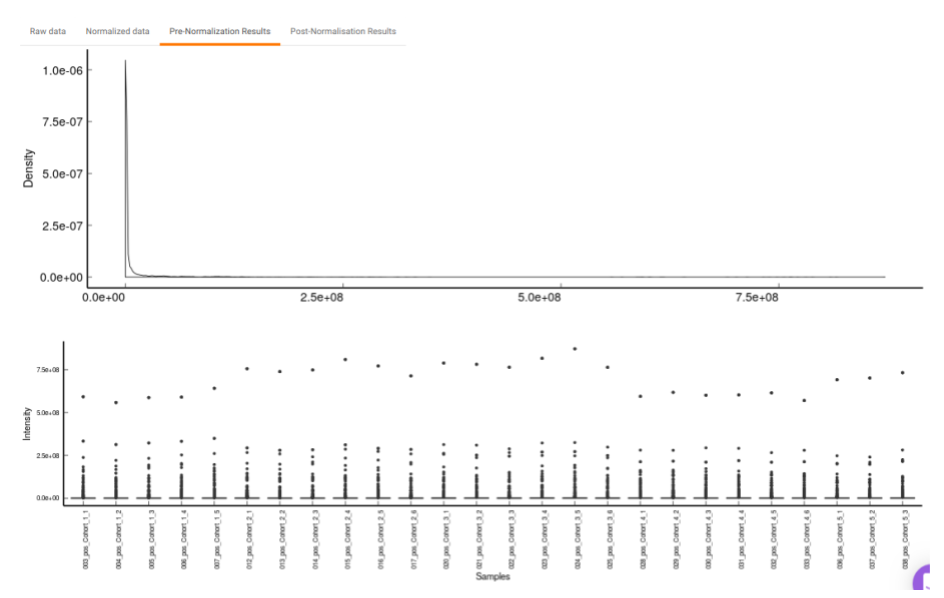
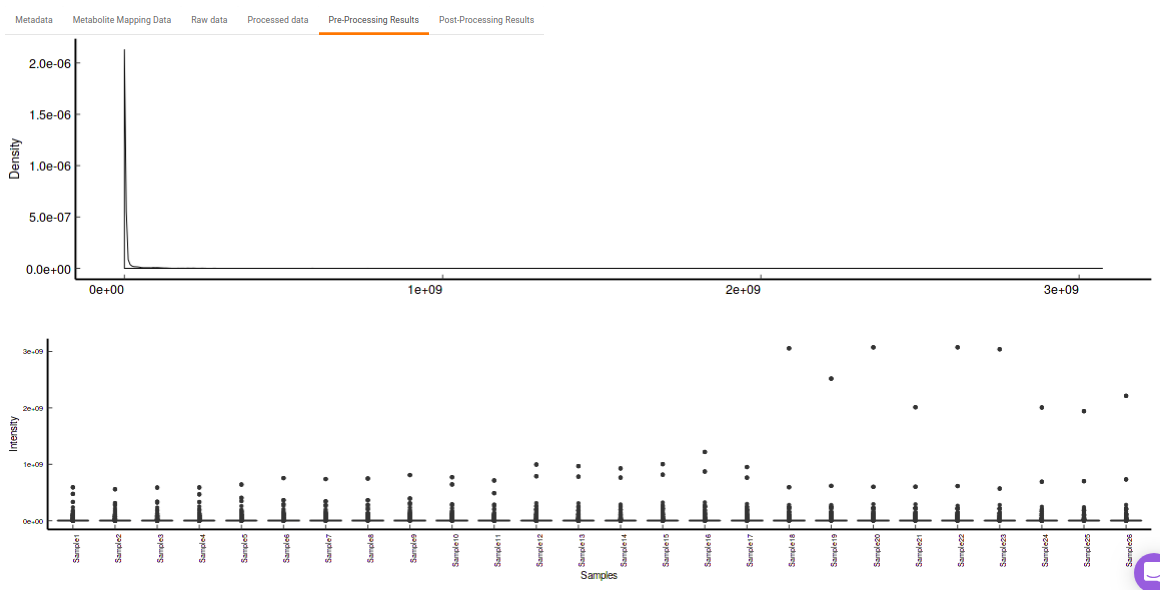
updated doc for new app changes

Changed region(s): [[0.0, 0.5797, 1.0, 1.0], [0.0, 0.0305, 1.0, 0.5186]]

diff --git a/docs/Apps/Metabolomic Data/Dual Mode Visualization.md b/docs/Apps/Metabolomic Data/Dual Mode Visualization.md
@@ -2,16 +2,16 @@
 
 ##Overview
 
-Metabolomics is one of the key research areas focusing on small molecules present in a tissue or cell. The Dual Mode Data Visualization (Metabolomics App) allows you to perform downstream analysis on single mode (either positive or negative mode) as well as dual mode (both positive and negative mode) targeted, semi-targeted (without retention time) and untargeted metabolomics data along with insightful visualizations. You are provided with the option to upload either the data as a .csv file from [El-MAVEN](https://resources.elucidata.io/elmaven) in the group summary matrix format along with the cohort mapping file or as a .gct file format, which contains both the data and metadata. The app provides you with a variety of normalization methods, scaling options and data visualization functionalities, thereby allowing an efficient analysis of the data to get actionable insights.
+The Dual Mode Data Visualization (Metabolomics App) allows you to perform downstream analysis on single mode (either positive or negative mode) as well as dual mode (both positive and negative mode) targeted, semi-targeted (without retention time) and untargeted unlabeled metabolomics data along with insightful visualizations. The app provides a variety of normalization methods, scaling options and data visualization functionalities, thereby allowing an efficient analysis of the data to get actionable insights.
 
 ##Scope of the App
 
-*   Processes negative and positive mode unlabeled LC-MS data together.
-*   Works with .gct file format as well.
-*   Performs normalization and scaling on the data.
+*   The application supports data with a simple matrix having samples in the columns and metabolites in the rows.
+*   It provides different normalization and scaling methods to perform on the data.
 *   Performs quality checks for internal standards, metabolites, and samples.
 *   Performs statistical analysis using limma and provides interactive visualizations.
-*   Performs pathway analysis and visualizes pathway enrichment analysis plots.
+*   Provides heatmap visualization along with different algorithms like hierarchical clustering, k-means, correlation etc.
+*   Performs comparative analysis for the different cohort comparisons.
 
 ![Dual Mode Data Visualization (Metabolomics App) workflow schematic](../../img/DualMode/metab_app_workflow_schematics.png) <center>**Figure 1.** Dual Mode Data Visualization </center>
 
@@ -56,29 +56,9 @@ To process dual mode data, the following files are required:
 *   An already processed .gct file can also serve as input to the app.
 *   The internal standard file is optional.
 
-##Steps in data processing
-
-*   Perform peak annotation on El-MAVEN
-*   Prepare the cohort mapping file
-*   Perform normalization and scaling on the data
-*   View the quality checks for internal standards, metabolites and samples
-*   Perform differential expression between two cohort conditions
-*   Generate input for [IntOmix](https://docs.elucidata.io/Apps/Multi-omic%20Data/IntOmix.html) to identify significantly changing metabolic network modules between two experimental conditions
-
-##Caveats
-
-*   Single-Mode Data
-    *   The metadata file should have at least two columns: *Sample* and *Cohort*. However, it might have additional columns to perform any specific normalization such as *Cell Number* etc.
-
-*   Dual-Mode Data
-    *   The metadata file should contain a cohort mapping for samples from both the negative and positive mode.
-    *   It should have at least four columns: *Sample*, *SampleName\_neg*, *SampleName\_pos* and *Cohort*. However, it might have additional columns to perform any specific normalization such as *Cell Number* etc.
-    *   The sample name should be exactly same between different input files
-    *   *Sample* column denotes the new sample name that will be assigned to the specific sample from positive and negative mode after merging the data.
-
 #Tutorial
 
-Select *Dual Mode Data Visualization (Metabolomics App)* from the dashboard under the *Metabolomics Data* Tab as shown in Figure 7. Create a *New Workspace* or choose from the existing one from the dop-down and provide the *Name of the Session* to be redirected to Dual Mode Data Visualisation (Metabolomics App)'s upload page.
+Select *Dual Mode Data Visualization (Metabolomics App)* from the dashboard under the *Metabolomics Data* Tab as shown in Figure 8. Create a *New Workspace* or choose from the existing one from the dop-down and provide the *Name of the Session* to be redirected to Dual Mode Data Visualisation (Metabolomics App)'s upload page.
 
 ![Polly Dashboard and Workspace selection](../../img/DualMode/Dashboard.png)
 
@@ -146,17 +126,17 @@ The Pre-processing interface allows you to perform a multitude of functions on t
 
 ![Preprocessing Tab](../../img/DualMode/metab_app_preprocessing_tab.png) <center>**Figure 16.** Preprocessing Tab</center>
 
-*   *Drop Samples:* This allows you to drop/remove certain samples from further analysis which could be blank samples or any samples that didn’t have a good run during MS processing. Samples can be dropped by clicking on *Drop Samples* as shown in Figure 16 after selecting the sample(s) from the drop down menu.
-
-![*Drop Samples* option](../../img/DualMode/metab_app_drop_samples_option.png) <center>**Figure 17.** *Drop Samples* option</center>
-
 *   *Select Internal Standards:* This allows you to select the internal standard(s) from within the El-MAVEN output file when a separate internal standards file is not provided as input.
 
 **Note:**
 
 *   In case, the internal standard(s) are not in the El-MAVEN output file but in the separate internal standards file, they will not show up in the drop down menu. To select the desired internal standards, select them in *Normalize by individual internal standards* option under *Normalize by Internal standards* in the *Perform Normalization > Normalization*.
 
-![Selecting internal standards from the data](../../img/DualMode/metab_app_int_stds_from_elmaven.png) <center>**Figure 18.** Selecting internal standards from the data</center>
+![Selecting internal standards from the data](../../img/DualMode/metab_app_int_stds_from_elmaven.png) <center>**Figure 17.** Selecting internal standards from the data</center>
+
+*   *Drop Samples:* This allows you to drop/remove certain samples from further analysis which could be blank samples or any samples that didn’t have a good run during MS processing. Samples can be dropped by clicking on *Drop Samples* as shown in Figure 18 after selecting the sample(s) from the drop down menu.
+
+![*Drop Samples* option](../../img/DualMode/metab_app_drop_samples_option.png) <center>**Figure 18.** *Drop Samples* option</center>
 
 *   *Normalize by Internal standards* performs normalization using the internal standards.
 
@@ -193,18 +173,24 @@ The Pre-processing interface allows you to perform a multitude of functions on t
 Clicking on *Run* will perform the normalization and scaling based on the parameters selected.
 
 *   *Table:* This displays the data table and visualizations for both pre- and post- normalization.
-    *   **Raw data:** This displays the raw El-MAVEN data uploaded. This data can be downloaded in the .gct format as shown in Figure 22.
-    *   **Normalized data:** This displays the normalized El-MAVEN data based on the parameters selected. This data can be downloaded in .gct format as shown in Figure 23.
-    *   **Pre-Normalization Results:** This allows you to have a look at the sample distribution with the help of density plot and box-plot before normalization as shown in Figure 24.
-    *   **Post-Normalization Results:** This allows you to have a look at the sample distribution with the help of the density plot and box-plot after normalization. This provides you with the ability to check the effect of the normalization parameters on the data as shown in Figure 25.
+    *   **Metadata:** This displays the metadata uploaded. This data can be downloaded in the .csv format as shown in Figure 23.
+    *   **Metabolite Mapping data:** This displays the metabolite data uploaded. This data can be downloaded in the .csv format as shown in Figure 24.
+    *   **Raw data:** This displays the raw El-MAVEN data uploaded. This data can be downloaded in the .gct format as shown in Figure 25.
+    *   **Processed data:** This displays the normalized El-MAVEN data based on the parameters selected. This data can be downloaded in .gct format as shown in Figure 26.
+    *   **Pre-Processing Results:** This allows you to have a look at the sample distribution with the help of density plot and box-plot before normalization as shown in Figure 27.
+    *   **Post-Processing Results:** This allows you to have a look at the sample distribution with the help of the density plot and box-plot after normalization. This provides you with the ability to check the effect of the normalization parameters on the data as shown in Figure 28.
 
-![Raw data table](../../img/DualMode/metab_app_raw_data_table.png) <center>**Figure 23.** Raw data table</center>  
+![Metadata table](../../img/DualMode/metab_app_metadata_table.png) <center>**Figure 23.** Metadata table</center> 
 
-![Normalized data table](../../img/DualMode/metab_app_noramlized_data_table.png) <center>**Figure 24.** Normalized data table</center>  
+![Metabolite Mapping data table](../../img/DualMode/metab_app_metabolite_mapping_data_table.png) <center>**Figure 24.** Metabolite Mapping data table</center> 
 
-![Pre-Normalization Results](../../img/DualMode/metab_app_pre_norm_results.png) <center>**Figure 25.** Pre-Normalization Results</center>
+![Raw data table](../../img/DualMode/metab_app_raw_data_table.png) <center>**Figure 25.** Raw data table</center>  
 
-![Post-Normalization Results](../../img/DualMode/metab_app_post_norm_results.png) <center>**Figure 26.** Post-Normalization Results</center>
+![Processed data table](../../img/DualMode/metab_app_normalized_data_table.png) <center>**Figure 26.** Processed data table</center>  
+
+![Pre-Processing Results](../../img/DualMode/metab_app_pre_norm_results.png) <center>**Figure 27.** Pre-Processing Results</center>
+
+![Post-Processing Results](../../img/DualMode/metab_app_post_norm_results.png) <center>**Figure 28.** Post-Processing Results</center>
 
 ##Quality Checks
 
@@ -216,24 +202,24 @@ It allows you to have a look at the quality of the internal standards used in th
 
 *   Internal Standards (Individual): You can visualize the quality checks for any internal standard specifically. This allows you to select the internal standard by name, followed by another drop down to select by uniqueId of the feature. It’s also possible to specify the cohort order for the plots. For dual mode data, you can specify the internal standard of the particular mode from the *Select uniqueIds* drop down.
 
-![Internal Standards (Individual) options](../../img/DualMode/metab_app_internal_standards_individual_page.png) <center>**Figure 30.** Internal Standards (Individual) options</center>
+![Internal Standards (Individual) options](../../img/DualMode/metab_app_internal_standards_individual_page.png) <center>**Figure 29.** Internal Standards (Individual) options</center>
 
-![CV Distribution across cohorts](../../img/DualMode/metab_app_indi_stds_cv_distri_across_cohorts.png) <center>**Figure 31.** CV Distribution across cohorts</center>
+![CV Distribution across cohorts](../../img/DualMode/metab_app_indi_stds_cv_distri_across_cohorts.png) <center>**Figure 30.** CV Distribution across cohorts</center>
 
-![CV Distribution across samples](../../img/DualMode/metab_app_indi_stds_cv_distri_samples.png) <center>**Figure 32.** CV Distribution across samples</center>
+![CV Distribution across samples](../../img/DualMode/metab_app_indi_stds_cv_distri_samples.png) <center>**Figure 31.** CV Distribution across samples</center>
 
 *   Metabolites: It allows you to have a look at the quality of the metabolites present in the data with the help of the Coefficient of Variation plots
 
     *   Metabolites CoV Boxplot visualizes the Coefficient of Variation across different cohorts in the data in the form of the boxplot. It’s also possible to specify the cohort order for the plots as shown in Figure 32.
-    *   Metabolites CoV Barplot visualizes the Coefficient of Variation as a quality check for any specific metabolite. To use this, select the metabolite followed by the unique id of the feature using the drop downs shown in Figure 32. It’s also possible to specify the cohort order for the plots as shown in FIgure 33.
+    *   Metabolites CoV Barplot visualizes the Coefficient of Variation as a quality check for any specific metabolite. To use this, select the metabolite followed by the unique id of the feature using the drop downs shown in Figure 33. It’s also possible to specify the cohort order for the plots as shown in FIgure 33.
 
-![Metabolites CoV Boxplot option and CV Distribution across Cohorts boxplot](../../img/DualMode/metab_app_metabolites_cov_boxplot_options.png) <center>**Figure 33.** Metabolites CoV Boxplot option and CV Distribution across Cohorts boxplot</center> 
+![Metabolites CoV Boxplot option and CV Distribution across Cohorts boxplot](../../img/DualMode/metab_app_metabolites_cov_boxplot_options.png) <center>**Figure 32.** Metabolites CoV Boxplot option and CV Distribution across Cohorts boxplot</center> 
 
-![Metabolites CoV Barplot](../../img/DualMode/metab_app_metabolites_cov_barplot.png) <center>**Figure 34.** Metabolites CoV Barplot</center>
+![Metabolites CoV Barplot](../../img/DualMode/metab_app_metabolites_cov_barplot.png) <center>**Figure 33.** Metabolites CoV Barplot</center>
 
-![CV Distribution across cohorts for selected metabolite](../../img/DualMode/metab_app_metabolites_cv_barplot_cv_across_cohorts.png) <center>**Figure 35.** CV Distribution across cohorts for selected metabolite</center>
+![CV Distribution across cohorts for selected metabolite](../../img/DualMode/metab_app_metabolites_cv_barplot_cv_across_cohorts.png) <center>**Figure 34.** CV Distribution across cohorts for selected metabolite</center>
 
-![CV Distribution across samples for the selected metabolite](../../img/DualMode/metab_app_metabolites_cv_barplot_cv_across_samples.png) <center>**Figure 36.** CV Distribution across samples for the selected metabolite</center>
+![CV Distribution across samples for the selected metabolite](../../img/DualMode/metab_app_metabolites_cv_barplot_cv_across_samples.png) <center>**Figure 35.** CV Distribution across samples for the selected metabolite</center>
 
 **PCA**
 
@@ -241,17 +227,17 @@ This allows you to understand the clustering pattern between biologically groupe
 
 *   PCA (2D) provides PCA visualization in a two-dimensional manner by selecting the PC values for *x-* and *y-* axes. It’s also possible to specify the cohort order for the plots.
 
-![Two-dimensional PCA plot](../../img/DualMode/metab_app_2d_pca.png) <center>**Figure 37.** Two-dimensional PCA plot</center>
+![Two-dimensional PCA plot](../../img/DualMode/metab_app_2d_pca.png) <center>**Figure 36.** Two-dimensional PCA plot</center>
 
 *   PCA (3D) provides PCA visualization in a three-dimensional manner by selecting the PC values for *x-*, *y-* and *z-* axes. It’s also possible to specify the cohort order for the plots.
 
-![Three-dimensional PCA plot](../../img/DualMode/metab_app_3d_pca.png) <center>**Figure 38.** Three-dimensional PCA plot</center>
+![Three-dimensional PCA plot](../../img/DualMode/metab_app_3d_pca.png) <center>**Figure 37.** Three-dimensional PCA plot</center>
 
 ##Statistical Analysis
 
 This interface allows you to perform differential expression analysis with the aim to identify metabolites whose expression differs between any specified cohort conditions. The 'limma' R package is used to identify the differentially expressed metabolites. This method creates a log<sub>2</sub> fold change ratio between the two experimental conditions and an 'adjusted' *p*-value that rates the significance of the difference.
 
-![Statistical Analysis interface](../../img/DualMode/metab_app_stats_analysis_page.png) <center>**Figure 39.** Statistical Analysis interface</center>
+![Statistical Analysis interface](../../img/DualMode/metab_app_stats_analysis_page.png) <center>**Figure 38.** Statistical Analysis interface</center>
 
 The following parameters are available for selection:
 
@@ -262,44 +248,44 @@ The following parameters are available for selection:
 
 Once the parameters are specified, click on the *Update* button to plot the volcano plot. Based on the parameters specified, a volcano plot is displayed. The volcano plot helps in visualizing metabolites that are significantly dysregulated between two cohorts.
 
-![Volcano plot](../../img/DualMode/metab_app_volcano_plot.png) <center>**Figure 40.** Volcano plot</center>
+![Volcano plot](../../img/DualMode/metab_app_volcano_plot.png) <center>**Figure 39.** Volcano plot</center>
 
 *Filtered Metabolites Visualization* provides the visualization of cohort-based distribution of the metabolites that are significant based on the parameters specified.
 
-![Filtered Metabolites Visualization](../../img/DualMode/metab_app_stats_analysis_filtered_metabolites_visualization.png) <center>**Figure 41.** Filtered Metabolites Visualization</center>
+![Filtered Metabolites Visualization](../../img/DualMode/metab_app_stats_analysis_filtered_metabolites_visualization.png) <center>**Figure 40.** Filtered Metabolites Visualization</center>
 
 *Filtered Normalized Table* contains the normalized data of the metabolites that are significant based on the parameters specified.
 
-![Filtered Normalized Table](../../img/DualMode/metab_app_stats_analysis_filtered_normalised_table.png) <center>**Figure 42.** Filtered Normalized Table</center>
+![Filtered Normalized Table](../../img/DualMode/metab_app_stats_analysis_filtered_normalised_table.png) <center>**Figure 41.** Filtered Normalized Table</center>
 
 *Filtered Differential Expression Table* contains only the metabolites that have significant *p*-values as specified.
 
-![Filtered Differential Expression Table](../../img/DualMode/metab_app_stats_analysis_filtered_diff_exp_table.png) <center>**Figure 43.** Filtered Differential Expression Table</center>
+![Filtered Differential Expression Table](../../img/DualMode/metab_app_stats_analysis_filtered_diff_exp_table.png) <center>**Figure 42.** Filtered Differential Expression Table</center>
 
 *Differential Expression Table* contains all the differentially expressed metabolites without any filtering.
 
-![Differential Expression Table](../../img/DualMode/metab_app_stats_analysis_diff_exp_table.png) <center>**Figure 44.** Differential Expression Table</center>
+![Differential Expression Table](../../img/DualMode/metab_app_stats_analysis_diff_exp_table.png) <center>**Figure 43.** Differential Expression Table</center>
 
 *Pathway Enrichment Analysis* performs the pathway enrichment analysis for the significant metabolites based on the parameters specified for the particular cohort comparison. Click on the *Perform Pathway Analysis* button.
 As a result, you get Metabolite Set Enrichment Analysis and Pathway Topology Analysis plots that can be downloaded under the *Plot* panel. You can also obtain the tablular representation of the plots by selecting onto the *Table* panel.
 
-![Metabolite Set Enrichment Analysis Plot](../../img/DualMode/metab_app_stats_analysis_msea_plot.png) <center>**Figure 45.** Metabolite Set Enrichment Analysis Plot</center>
+![Metabolite Set Enrichment Analysis Plot](../../img/DualMode/metab_app_stats_analysis_msea_plot.png) <center>**Figure 44.** Metabolite Set Enrichment Analysis Plot</center>
 
-![Pathway Topology Analysis Plot](../../img/DualMode/metab_app_stats_analysis_pathway_topology_plot.png) <center>**Figure 46.** Pathway Topology Analysis Plot</center>
+![Pathway Topology Analysis Plot](../../img/DualMode/metab_app_stats_analysis_pathway_topology_plot.png) <center>**Figure 45.** Pathway Topology Analysis Plot</center>
 
-![Metabolite Set Enrichment Analysis Table](../../img/DualMode/metab_app_stats_analysis_msea_table.png) <center>**Figure 47.** Metabolite Set Enrichment Analysis Table</center>
+![Metabolite Set Enrichment Analysis Table](../../img/DualMode/metab_app_stats_analysis_msea_table.png) <center>**Figure 46.** Metabolite Set Enrichment Analysis Table</center>
 
-![Pathway Topology Analysis Table](../../img/DualMode/metab_app_stats_analysis_topology_table.png) <center>**Figure 48.** Pathway Topology Analysis Table</center>
+![Pathway Topology Analysis Table](../../img/DualMode/metab_app_stats_analysis_topology_table.png) <center>**Figure 47.** Pathway Topology Analysis Table</center>
 
 *Pathway View* plots the pathway view of the metabolites that show up in the Metabolite Set Enrichment Analysis. It maps and renders the metabolite hits on relevant pathway graphs. This enables you to visualize the significant metabolites on pathway graphs of the respective metabolites they belong to. You can select your metabolite of interest from the drop-down and click on *Plot*. This will plot the pathway view of the metabolism selected. You can also download the plot as a .png file by clicking onto the *Download Pathview Plot* button.
 
-![Pathway View Plot](../../img/DualMode/metab_app_stats_analysis_pathview_plot.png) <center>**Figure 49.** Pathway View Plot</center>
+![Pathway View Plot](../../img/DualMode/metab_app_stats_analysis_pathview_plot.png) <center>**Figure 48.** Pathway View Plot</center>
 
 ##Visualization
 
 This interface allows you to visualize the cohort-based distribution of a specific metabolite or a group of metabolites on the basis on its normalized intensity values.
 
-![Visualization tab options](../../img/DualMode/metab_app_viz_tab_options.png) <center>**Figure 50.** Visualization tab options</center>
+![Visualization tab options](../../img/DualMode/metab_app_viz_tab_options.png) <center>**Figure 49.** Visualization tab options</center>
 
 *   *Enter metabolite:* Select the metabolite(s) of interest from the drop down option.
 *   *Select uniqueIds:* You can specifically select the metabolic feature of interest for the metabolite from the drop down option.
@@ -307,21 +293,27 @@ This interface allows you to visualize the cohort-based distribution of a specif
 
 Once the parameters are selected, click on *Load Plots* to plot the bar plot for the metabolite.
 
-![Cohort-wise bar plot with the normalized intensity of selected metabolite](../../img/DualMode/metab_app_barplot_viz.png) <center>**Figure 51.** Cohort-wise bar plot with the normalized intensity of selected metabolite</center>
+![Cohort-wise bar plot with the normalized intensity of selected metabolite](../../img/DualMode/metab_app_barplot_viz.png) <center>**Figure 50.** Cohort-wise bar plot with the normalized intensity of selected metabolite</center>
 
 ##IntOmix Input
 
 This tab allows you to generate the input for [IntOmix](https://docs.elucidata.io/Apps/Multi-omic%20Data/IntOmix.html) where you can visualize the significantly altered metabolic network modules between any two experimental conditions.
 
-![IntOmix Input Tab options](../../img/DualMode/metab_app_intomix_input_tab.png) <center>**Figure 52.** IntOmix Input Tab options</center>
+![IntOmix Input Tab options](../../img/DualMode/metab_app_intomix_input_tab.png) <center>**Figure 51.** IntOmix Input Tab options</center>
 
 Specify two or more cohorts from the *Select cohorts* drop down option for which you want to generate the IntOmix input. Once the required cohorts are selected, click on *Generate* to generate the IntOmix input.
 
-![IntOmix Table for the cohort conditions specified](../../img/DualMode/metab_app_intomix_table.png) <center>**Figure 53.** IntOmix Table for the cohort conditions specified</center>
+![IntOmix Table for the cohort conditions specified](../../img/DualMode/metab_app_intomix_table.png) <center>**Figure 52.** IntOmix Table for the cohort conditions specified</center>
 
 **NOTE:**
 
 *   At least two cohorts are required to create the input file.
+
+##Heatmap
+
+This tab allows you to produce a heatmap of the processed data, so that you can observe the level of expression in a visual form. Click on *Load Heatmap* button to generate the heatmap.
+
+![Heatmap of the processed data](../../img/DualMode/metab_app_heatmap.png) <center>**Figure 53.** Heatmap</center>
 
 ##Comparative Analysis
 
